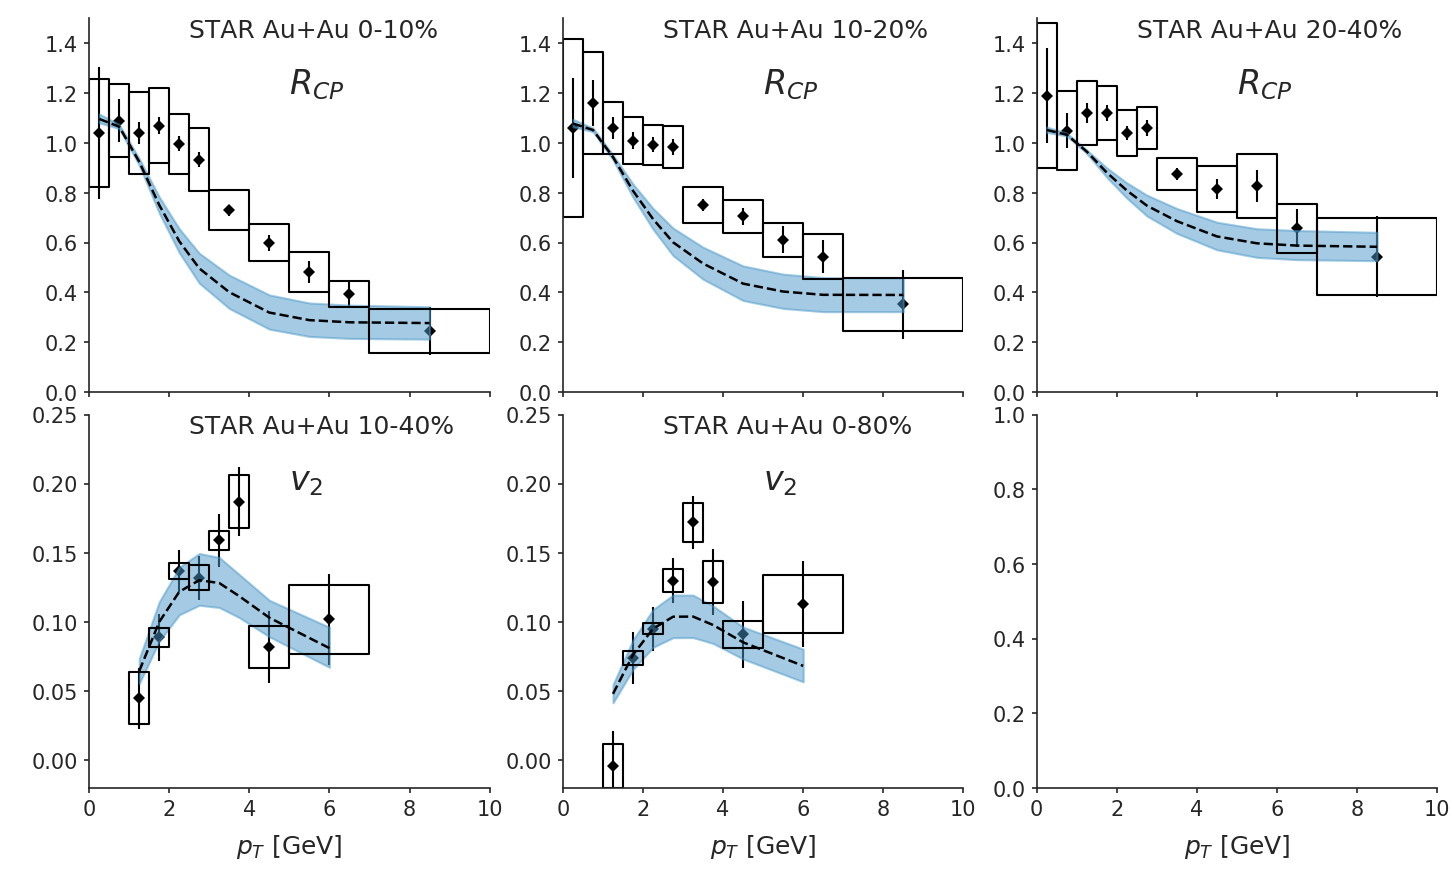
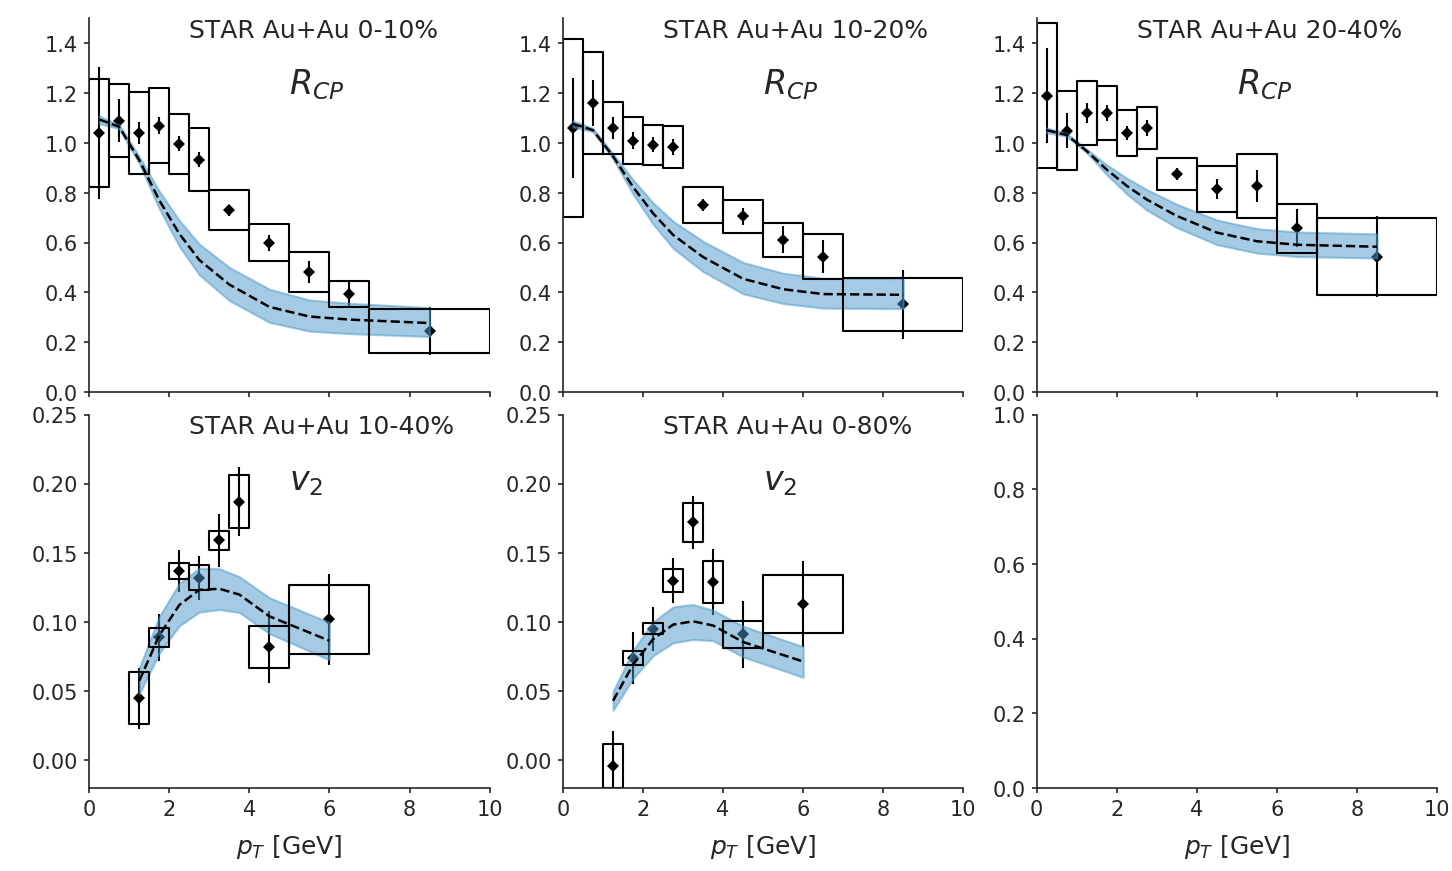
results conclusion +

diff --git a/chapters/results.tex b/chapters/results.tex
@@ -249,9 +249,15 @@ In the actually calibration, we will also change a few default parameters to see
 \label{fig:new:obs_posterior_LHC}
 \end{figure}
 
-\paragraph{Posterior observables} The global level of agreement between the calibrated model and the data are shown in figure \ref{fig:new:obs_posterior_LHC} for LHC energy, and figure \ref{fig:new:obs_posterior_RHIC} for RHIC energy.
-The both the $D$-meson and the $B$-meson $R_{AA}$ at the LHC energy is well described by the calibrated model, while $v_2$ is systematically below the data.
-At the RHIC energy, the $v_2$ has a better agreement; the magnitude of $R_{CP}$ (note that we only calibrated on the three data points above $p_T=5$ GeV) is correct, though the shape is too flat compared to the data.
+\paragraph{Posterior observables} The global level of agreement between the calibrated model and the data is shown in figure \ref{fig:new:obs_posterior_LHC} at the LHC energy, and figure \ref{fig:new:obs_posterior_RHIC} at the RHIC energy.
+The black dashed lines show the median prediction, while the blue bands stands for $90\%$ credible region.
+We remind the reader that because of the model predicts anti-correlation between $R_{AA}$ and $v_2$, the lower and upper bounds of the uncertainty bands are also anti-correlated.
+For example, a line that is close to the higher bounds in $R_{AA}$ is likely to be lose to the lower bounds in $v_2$.
+
+Both the $D$-meson and the $B$-meson $R_{AA}$ at the LHC energy are well described by the calibrated model, while $v_2$ is systematically below the data.
+Large separation between the event-engineered $v_2$ is observed, 
+At the RHIC energy, $v_2$ has a better agreement. 
+The magnitude of $R_{CP}$ at $p_T> 5$ GeV \footnote{Remember that the model is calibrated on the three data points above $p_T=5$ GeV} and its centrality dependences is correctly reflected, though the shape is too flat compared to the data.
 
 \begin{figure}
 \centering
@@ -267,15 +273,15 @@ At the RHIC energy, the $v_2$ has a better agreement; the magnitude of $R_{CP}$ 
 \label{fig:new:posterior}
 \end{figure*}
 
-\paragraph{Posterior distribution of parameters} Figure \ref{fig:new:posterior} shows the posterior distribution of the parameters.
-The $\ln\mu$ parameter has a evident peak around $.99$, which correspond to $\mu \approx 2.7$.
-Note that the means the preferred in-medium coupling is smaller than the extracted one from the previous analysis.
-This is because the improved implementation of the radiave process produces more energy loss than the old one when the coupling is large, so a smaller value of $\alpha_s$ is needed to explain the data.
-The resulting posterior of $\alpha_s$ (figure \ref{fig:new:posterior-alphas}) suggests an effective in-medium coupling from 0.20 to 0.33 at $T=300$ MeV.
-Though the preferred $\alpha_s \sim 0.3$ is smaller than the previous one, $g\sim 2$ is still large, but this extracted coupling constant is much closer to phenomenological values used by other studies [].
-The energy loss starting is preferred to be about half of the hydrodynamic starting time.
-The switching scale parameter do not have a strong preference as long as it is not too large, which is consistent with our model construction that physical processes should be weakly depends on this switching scale between diffusion and scattering modeling.
-The matching parameter $R_v$ is not very well constrained, as we have shown it only affects very high-$p_T$ observables.
+\paragraph{Posterior distribution of parameters} Figure \ref{fig:new:posterior} shows the single parameter posterior (diagonal plots) and two-parameter-joint posterior distributions (off-diagonal plots) of the 10 model parameters, plus the model systematic uncertainty parameter ($\sigma_m$).
+
+The $\ln\mu$ parameter has an evident peak around $1.3$, which correspond to $\mu \approx 3.5$.
+The resulting posterior of $\alpha_s$ is plotted in figure \ref{fig:new:posterior-alphas}, the median value of $\alpha_s$ at $Q=\mu\pi T$ varies from 0.3 to 0.22 for the relevant temperature trange $0.15 < T < 0.5$ GeV, corresponding to $g\sim 2$.
+Note that this $\alpha_s$ does not stands for the strength of all the probe-medium interaction, recalling that there is a significant parametric diffusion contribution to the elastic energy loss.
+For radiative process, though the $1\rightarrow 2$ splitting vertex explicitly uses this $\alpha_s$, the strength of the LPM effect is again controlled by the elastic broadening.
+
+Compared to the previous extraction, the preferred in-medium coupling strength is smaller and is closer to the phenomenological values used by other studies [].
+However, the coupling is still large compared to the weakly coupled assumption $g\ll 1$.
 
 \begin{figure}
 \centering
@@ -284,16 +290,9 @@ The matching parameter $R_v$ is not very well constrained, as we have shown it o
 \label{fig:new:posterior-alphas}
 \end{figure}
 
-We plotted the 90\% credible range of the posterior transport parameters $\hat{q}, \hat{q}_L$ as the red bands in figure \ref{fig:new:posterior-qhat}.
-The figure is arranged similarly to its prior plot.
-The transport parameters is nicely constrained compare to its prior range (gray bands), and is comparable to the earlier extraction by the JET Collaboration \footnote{Note that the JET Collaboration extracts the light quark $\hat{q}$. However, at $p_T = 10$ GeV, the mass effect of the charm is small and these two numbers should be comparable.}.
-We also present a first extraction of the longitudinal transport parameter. 
-And it is quite anisotropic, similar to the pure weakly coupled expectation.
-
-For the heavy quark spatial diffusion constant, since it is related to $\hat{q}$ in the zero momentum limit. 
-Such an extraction is essentially an extrapolation of our parametrization, and can be sensitive to the detailed choice of the ansatz. 
-Nevertheless, the extraction is compared to varies lattice calculations [] in  figure \ref{fig:new:posterior-Ds}.
-Our extraction (red band for 90\% credible region) agrees with the lattice calculation in the static limit of the heavy quark; while calculation using dynamical charm quark gives a much lower value.
+The energy loss starting is preferred to be after about half of the hydrodynamic starting time.
+The switching scale parameter do not have a strong preference as long as it is not too large, which is consistent with our model construction that physical processes should be weakly depends on this switching scale between diffusion and scattering modeling.
+The matching parameter $R_v$ is not very well constrained with a weak preference at $2$.
 
 
 \begin{figure}
@@ -303,6 +302,23 @@ Our extraction (red band for 90\% credible region) agrees with the lattice calcu
 \label{fig:new:posterior-qhat}
 \end{figure}
 
+We plotted the 90\% credible range (red bands) of the posterior transport parameters $\hat{q}, \hat{q}_L$ on top of their prior range (gray band) in figure \ref{fig:new:posterior-qhat}.
+The transport parameters is nicely constrained and is comparable to the earlier extraction by the JET Collaboration \footnote{Note that the JET Collaboration extracts the light quark $\hat{q}$. However, at $p_T = 10$ GeV, the mass effect of the charm is small and these two numbers should be comparable.}.
+We also present a first extraction of the longitudinal transport parameter $\hat{q}_L$. 
+The longitudinal transport is quite anisotropic when compared to $\hat{q}$.
+First, its perturbative contribution already introduces
+
+For the heavy quark spatial diffusion constant, since it is related to $\hat{q}$ in the zero momentum limit. 
+Such an extraction is essentially an extrapolation of our parametrization, and can be sensitive to the detailed choice of the ansatz.
+Nevertheless, the extraction is (red band for 90\% credible region) is compared to varies lattice calculations [] in  figure \ref{fig:new:posterior-Ds}.
+Our extraction for both charm and bottom quark spatial diffusion constants is similar, and is consistent with lattice calculations in the static / infinitely heavy limit of the heavy quark.
+While the lattice calculation of dynamical charm quark gives a much lower value of $D_s$.
+One may expect that our phenomenological extraction should give a similar separation between bottom and charm flavor, as the bottom is more than three times heavier.
+However, we found that the mass dependence in the elastic part of our model is relatively weak. 
+First, the mass only affects the phase-space integration of $t$-channel exchange perturbative scattering.
+Second, the diffusion parameter of the weakly coupled theory, we are using explicitly heavy-quark limit that it does not depend on mass.
+Finally, mass only enters the parametric diffusion part through a combination $E/T$, which is approximately $M/T$ at low momentum, since both charm and bottom mass are already much higher than the typical temperature, the parametric part also introduces a weak flavor dependence.
+In the future, one may seek for more physically motivated flavor dependence parametrization of the transport parameters.
 
 \begin{figure}
 \centering

diff --git a/chapters/conclusion.tex b/chapters/conclusion.tex
@@ -1,2 +1,49 @@
 \chapter{Conclusion}
 \label{chapter:conclusion}
+As a summary this dissertation, I focus on understanding the transport property of the heavy flavor in the strongly coupled quark-gluon plasma applying model-to-data comparison methodology, aiming for model improvements and uncertainty quantification.
+
+A prerequisite for the study in an ``accurate'' modeling of the physical ingredients to be tested.
+It is not so trivial to model the heavy quark transport that is coupled to an event-by-event fluctuating and evolving medium.
+On the one hand, this is because the finite medium-induced radiation formation time at high energy is much greater than the mean-free-path in semi-classical transport equations, and can be comparable to the medium evolution time scales.
+On the other hand, there are two compelling pictures regarding the heavy-quark-to-medium coupling: weakly coupled picture modeled by scatterings, and strongly coupled picture whose dynamics is often modeled by diffusion equations.
+We developed a transport model for hard parton propagation in near equilibrium plasma. 
+An improved treatment of LPM is implemented and it is shown to reduces to theoretical calculations in idealized infinite static medium limit, and captures qualitative features in a finite and evolving medium.
+The model also treats the large and small momentum transfer processes with different strategies of few-body scattering and diffusion (plus diffusion-induced radiation) method, which grants flexible parametrization of diffusion-like deviations from leading order weakly coupled approach.
+
+The transport in hot QGP stage fits into a more general ``transport'' picture including the initial production and high-virtuality evolution, hadronization near the transition temperature and decay and hadronic dynamics.
+We identity a matching problem between the high-virtuality evolution and medium-induced evolution.
+Currently, a unified formulation that smoothly connecting the virtuality shower and the in-medium shower is still missing, and we use a separation of phase-space to terminate vacuum showers at a scale ($Q^2$) where it is likely to receive similar amount of medium modifications to the transverse momentum ($\Delta k_\perp^2 \sim Q^2$).
+The exact location of the separation scale is then treated as an uncertainty of the model.
+
+Finally, we apply the Bayesian analysis to infer the model parameter distribution by comparing to heavy flavor measurements at both RHIC and the LHC.
+The model parameters includes uncertainties such as in-medium coupling strength, energy loss starting time, match scale between vacuum and medium-induced shower, diffusion versus scattering model, as well as parametrized deviations from weakly coupled calculations.
+The calibrated parameters is able to describe the experimental obserables within 30\% uncertainty.
+This level of agreement is still not enough to make the best use of future high-precision measurements, and we shall listed a few possible improvements for future studies in the end.
+
+\begin{figure}
+\centering
+\includegraphics[width=.7\textwidth]{qhat_posterior_3D.png}
+\caption{}
+\label{fig:conlusion}
+\end{figure}
+
+We highlight the progress of this work in the conclusion figure \ref{fig:conlusion}.
+It visualizes $90\%$ credible region of the energy and momentum dependence of the heavy quark momentum diffusion transport parameter $\hat{q}$ scaled by $T^3$.
+We found $\hat{q}/T^3$ gradually increases with $\ln E$ and displays an enhancement near the critical temperature.
+Studying heavy flavor helps to connect the knowledge of in-medium transport properties at very high momentum (light limit) and very low momentum (static sources limit).
+At relatively high momentum $p\sim 10$ GeV, it is consistent to the light quark transport parameter extracted by the JET Collaboration (blue).
+At low momentum $p\sim 0.5$ GeV, it is consistent with lattice calculations in the heavy quark limit (black).
+Future study with improved flavor dependence may be needed to understand the impact of using the ``heavy' limit in dynamical model.
+In the current present calibration, the effective in-medium strong coupling constant is about $0.3$, and only contribute a small fraction of the extracted $\hat{q}$ parameter.
+The rest comes from the parametric contribution whose origin can be either perturbative or non-perturbative; either way, it suggests the necessity to model beyond leading order physics.
+
+Considering the advent of future high-precision hard probe measurements in heavy-ion collisions,
+we summarize a few points of improvements that may help to reduce or estimate the theoretical and modeling uncertainty of hard probes application.
+\begin{itemize}
+\item An interpolation formula between vacuum and medium-induced radiation
+\item Correlation among multiple emissions in the presence of medium.
+\item Off equilibrium correction to the linearized transport equation.
+\item A calibration with simultaneous tuning bulk and hard sector.
+\item The use of less Glauber-model-dependent observables.
+\item Dynamical hadronization model and improved treatment of energy loss in the hadronic stage.
+\end{itemize}
